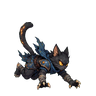
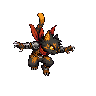
feat: align cinderpaw air animations

Changed region(s): [[0.125, 0.125, 0.8438, 0.9375]]

diff --git a/design/assets/asset-manifest.md b/design/assets/asset-manifest.md
@@ -40,7 +40,7 @@ are the transparent PNGs referenced by scenes or scripts.
 | cinderpaw_dodge_frames | `res://assets/characters/cinderpaw/dodge/cinderpaw_dodge_000.png` through `_002.png` | image generation | Pixel-art Cinderpaw dodge strip with crouch, dash, and recovery poses; generated source strip kept under `assets/characters/cinderpaw/source/`, chroma-key background removed to alpha, exported as three 96x96 transparent frames. | Imported | `assets/characters/cinderpaw/cinderpaw_sprite_frames.tres`; `src/gameplay/player_controller.gd`; `src/presentation/combat_presentation.gd` |
 | cinderpaw_dash_frames | `res://assets/characters/cinderpaw/dash/cinderpaw_dash_000.png` through `_002.png` | image generation derivative; source `assets/characters/cinderpaw/source/cinderpaw_dodge_strip_imagegen_20260624.png` | Runtime Dash frames are copied from the existing image-generated Cinderpaw dodge strip's dash-like poses so the Rat King dash reward has a dedicated `dash` SpriteFrames animation and dash-folder asset path. This is replaceable by a later authored Dash-only generation pass. | Imported | `assets/characters/cinderpaw/cinderpaw_sprite_frames.tres`; `src/gameplay/player_controller.gd`; `production/epics/player-abilities/story-001-dash-runtime-ability-gate.md` |
 | cinderpaw_hurt_death_revive_frames | `res://assets/characters/cinderpaw/hurt/cinderpaw_hurt_000.png`, `res://assets/characters/cinderpaw/death/cinderpaw_death_000.png`, and `res://assets/characters/cinderpaw/revive/cinderpaw_revive_000.png` through each `_002.png` | image generation | Pixel-art Cinderpaw hurt, death, and revive 3x3 source sheet with flat chroma-key background; saved under `assets/characters/cinderpaw/source/`, chroma-keyed to alpha, cropped, centered, and exported as 96x96 transparent frames. | Imported | `assets/characters/cinderpaw/cinderpaw_sprite_frames.tres`; `src/gameplay/player_controller.gd` |
-| cinderpaw_jump_fall_frames | `res://assets/characters/cinderpaw/jump/cinderpaw_jump_000.png` and `res://assets/characters/cinderpaw/fall/cinderpaw_fall_000.png` through each `_002.png` | image generation | Stylized Cinderpaw 2x3 jump/fall source sheet with flat chroma-key background; saved under `assets/characters/cinderpaw/source/`, chroma-keyed to alpha, cropped, resized, and exported as 96x96 transparent frames. | Imported | `assets/characters/cinderpaw/cinderpaw_sprite_frames.tres`; `src/gameplay/player_controller.gd` |
+| cinderpaw_jump_fall_frames | `res://assets/characters/cinderpaw/jump/cinderpaw_jump_000.png` and `res://assets/characters/cinderpaw/fall/cinderpaw_fall_000.png` through each `_002.png` | built-in image generation with Cinderpaw references; source `assets/characters/cinderpaw/source/cinderpaw_jump_fall_sheet_imagegen_20260715.png`; alpha source `assets/characters/cinderpaw/source/cinderpaw_jump_fall_sheet_alpha_20260715.png`; metadata `assets/characters/cinderpaw/source/cinderpaw_jump_fall_sheet_imagegen_20260715.md` | Six hard-edge `96x96` air-state frames preserving the canonical black/rust feline, red scarf, amber identity highlights, and dark steel armor. Exact 3x2 cells were chroma-matted, hard-alpha thresholded, and point/Nearest resized without feathering; replaces the former blue-cloak soft-render identity mismatch. | Imported | `assets/characters/cinderpaw/cinderpaw_sprite_frames.tres`; `src/gameplay/player_controller.gd`; `production/epics/combat-presentation/story-029-cinderpaw-air-animation-identity-consistency.md`; `production/qa/evidence/cinderpaw-air-animation-identity-consistency-2026-07-15.md` |
 | cinderpaw_parry_frames | `res://assets/characters/cinderpaw/parry/cinderpaw_parry_000.png` through `_002.png` | image generation; source `assets/characters/cinderpaw/source/cinderpaw_parry_strip_imagegen_20260626.png`; alpha source `assets/characters/cinderpaw/source/cinderpaw_parry_strip_alpha_20260626.png` | Pixel-art Cinderpaw 3-frame parry strip generated on green chroma key, alpha-matted, and sliced into 96x96 transparent frames for the player-facing `parry` SpriteFrames animation used by the parry laser gate runtime slice. | Imported | `assets/characters/cinderpaw/cinderpaw_sprite_frames.tres`; `src/gameplay/player_controller.gd`; `scenes/main.tscn`; `production/epics/player-abilities/story-019-parry-laser-gate-runtime.md` |
 | cinderpaw_aerial_attack_frames | `res://assets/characters/cinderpaw/aerial_attack/cinderpaw_aerial_attack_000.png` through `_002.png` | image generation; source `assets/characters/cinderpaw/source/cinderpaw_aerial_attack_strip_imagegen_20260711.png`; alpha source `assets/characters/cinderpaw/source/cinderpaw_aerial_attack_strip_alpha_20260711.png` | Reference-guided three-frame Cinderpaw airborne downward-claw strip, generated on green chroma key, alpha-matted, split into exact equal cells, and normalized to transparent `96x96` canvases for the unlocked `aerial_attack` state. | Imported | `assets/characters/cinderpaw/cinderpaw_sprite_frames.tres`; `src/gameplay/player_controller.gd`; `production/epics/player-abilities/story-129-sluice-matriarch-aerial-attack-reward-payoff.md` |
 | cinderpaw_heavy_charge_attack_frames | `res://assets/characters/cinderpaw/heavy_charge/cinderpaw_heavy_charge_000.png` through `_002.png`; `res://assets/characters/cinderpaw/heavy_attack/cinderpaw_heavy_attack_000.png` through `_002.png` | built-in image generation with Cinderpaw reference; source `assets/characters/cinderpaw/source/cinderpaw_heavy_charge_attack_sheet_imagegen_20260714.png`; alpha source `assets/characters/cinderpaw/source/cinderpaw_heavy_charge_attack_sheet_alpha_20260714.png`; metadata `assets/characters/cinderpaw/source/cinderpaw_heavy_charge_attack_sheet_imagegen_20260714.md` | Six-frame grounded heavy sequence: three progressive amber charge poses and three wind-up/slash/recovery poses. Flat green source was alpha-matted, split with fixed equal cells, and uniformly normalized to transparent `96x96` frames so scale, baseline, and anchor remain stable. | Imported | `assets/characters/cinderpaw/cinderpaw_sprite_frames.tres`; `src/gameplay/player_controller.gd`; `production/epics/feline-combat/story-010-grounded-heavy-charge-runtime.md` |

diff --git a/design/assets/entity-inventory.md b/design/assets/entity-inventory.md
@@ -18,7 +18,7 @@ All new visual assets in this inventory should be produced from image2 / image g
 
 | # | Name | Type | Description | Source | Status |
 |---|------|------|-------------|--------|--------|
-| 1 | Cat Warrior Player | Character / Protagonist | Main playable cat warrior with low ready stance, curved body language, sharp ears/claws, and cat-eye gold readability. Idle, run, attack, dodge, hurt, death, revive, jump, and fall frames are implemented through `AnimatedSprite2D + SpriteFrames`. | design/art/art-bible.md; design/gdd/feline-combat.md; design/gdd/player-abilities.md; production/epics/combat-presentation/story-003-cinderpaw-player-frame-animation.md; production/epics/combat-presentation/story-004-dodge-afterimage-cinderpaw-dodge-animation.md; production/epics/combat-presentation/story-005-cinderpaw-hurt-death-revive-animation.md; production/epics/combat-presentation/story-006-cinderpaw-jump-fall-animation.md | Implemented |
+| 1 | Cat Warrior Player | Character / Protagonist | Main playable cat warrior with low ready stance, curved body language, sharp ears/claws, and cat-eye gold readability. Idle, run, attack, dodge, hurt, death, revive, jump, and fall frames are implemented through `AnimatedSprite2D + SpriteFrames`; Story029 repairs jump/fall to the canonical black/rust, red-scarf, amber-highlight identity with hard pixel edges. | design/art/art-bible.md; design/gdd/feline-combat.md; design/gdd/player-abilities.md; production/epics/combat-presentation/story-003-cinderpaw-player-frame-animation.md; production/epics/combat-presentation/story-004-dodge-afterimage-cinderpaw-dodge-animation.md; production/epics/combat-presentation/story-005-cinderpaw-hurt-death-revive-animation.md; production/epics/combat-presentation/story-006-cinderpaw-jump-fall-animation.md; production/epics/combat-presentation/story-029-cinderpaw-air-animation-identity-consistency.md | Implemented |
 | 2 | Player Portrait | Character / Portrait | 64px dialogue/profile portrait with readable ears, eyes, and emotional variants for exploration, combat focus, hurt, and discovery. | design/art/art-bible.md; design/gdd/npc-dialogue.md | Needed |
 | 3 | Shadow Beast / Mechanical Rat Prototype | Enemy | Runtime patrol enemy with Shadow Beast image-generated frame animation, red attack tell, bite attack, hurt, and death frames. Uses `AnimatedSprite2D + SpriteFrames` in `scenes/characters/shadow_beast.tscn`; chase and richer AI scheduling remain pending. | design/art/art-bible.md; design/gdd/ai-framework.md; scenes/main.tscn; production/epics/feline-combat/story-009-runtime-enemy-attack-animation.md | Partial |
 | 4 | Mutated Creature / Factory Sluice Leech | Enemy / Old Factory Route Combat | Organic mutated-creature baseline implemented by Story126 as a distinct low S-curve industrial leech rather than another rat variant. The image-generated `FactoryTailraceExitSluiceLeech` uses `AnimatedSprite2D + SpriteFrames`, six 3-frame transparent 96x96 animations, an 18-frame signal-red-spine attack tell, a short CollisionComponent-driven lunge, family id `factory_sluice_leech`, and entity id `2146` after the Tailrace Exit Spillway. | design/art/art-bible.md; design/gdd/status-effects.md; design/gdd/ai-framework.md; design/gdd/feline-combat.md; production/epics/player-abilities/story-126-old-factory-tailrace-exit-spillway-sluice-leech-skirmish.md; production/qa/evidence/old-factory-tailrace-exit-spillway-sluice-leech-skirmish-2026-07-11.md | Implemented baseline |

diff --git a/assets/characters/cinderpaw/source/cinderpaw_jump_fall_sheet_imagegen_20260715.md b/assets/characters/cinderpaw/source/cinderpaw_jump_fall_sheet_imagegen_20260715.md
@@ -1,0 +1,71 @@
+# Cinderpaw Jump/Fall Image Generation Record
+
+Date: 2026-07-15
+Mode: built-in image generation with two Cinderpaw references
+Story: `production/epics/combat-presentation/story-029-cinderpaw-air-animation-identity-consistency.md`
+
+## 用途
+
+替换 2026-06-24 的跳跃/下落素材。旧素材使用蓝色披风、软绘制边缘和不同
+角色比例，与 idle/run 的黑锈猫、红围巾、深钢护甲身份不一致。
+
+## Prompt
+
+Create a strict 3-column by 2-row sprite animation sheet for the exact same
+Cinderpaw character shown in the references, for a polished 2D horizontal
+action game.
+
+CHARACTER IDENTITY MUST MATCH: small black-and-rust feline warrior, angular
+black fur, amber glowing eyes, bright red scarf with readable scarf tails,
+dark steel shoulder armor and forearm gauntlets, rust-orange fur accents,
+white claws. Do not redesign the costume. Absolutely no blue cloak, blue cape,
+blue armor, painterly rendering, soft illustration, or different character.
+
+PIXEL ART: crisp authored pixel art matching the first reference's pixel
+density, hard stepped edges, limited palette, high contrast, no antialiasing,
+no blur, no soft feathering, no glow outside the sprite. Each sprite must
+remain clearly readable after nearest-neighbor reduction to 96x96.
+
+LAYOUT: exactly six isolated, full-body, right-facing sprites in a precise 3x2
+grid, equal cell size and spacing, one character per cell, no overlap, no
+separators. Identical character scale and consistent pelvis/feet anchor. Keep
+at least 8% empty safety margin around every pose.
+
+TOP ROW - JUMP:
+1. jump takeoff, legs extending and front paw leading upward;
+2. rising jump, body stretched forward/up with scarf trailing;
+3. jump apex, compact feline tuck with tail balancing.
+
+BOTTOM ROW - FALL:
+1. early fall, body opening from apex, paws forward;
+2. stable downward fall, limbs spread for balance and scarf streaming upward;
+3. landing preparation, body lowered, legs reaching down, claws ready.
+
+BACKGROUND: perfectly uniform flat magenta chroma key #FF00FF covering every
+background pixel. Magenta must not appear on the character. No environment,
+ground, cast shadow, labels, text, UI, borders, watermark, extra limbs, extra
+tail, duplicate character, crop, or partial sprites.
+
+## References
+
+- `assets/characters/cinderpaw/source/cinderpaw_sprite_sheet_chroma.png`
+- `assets/characters/cinderpaw/source/cinderpaw_light_combo_sheet_alpha_20260714.png`
+
+## Outputs
+
+- Chroma source: `cinderpaw_jump_fall_sheet_imagegen_20260715.png`
+- Alpha source: `cinderpaw_jump_fall_sheet_alpha_20260715.png`
+- Runtime jump frames: `../jump/cinderpaw_jump_000.png` through `_002.png`
+- Runtime fall frames: `../fall/cinderpaw_fall_000.png` through `_002.png`
+- Runtime resource: `../cinderpaw_sprite_frames.tres`
+
+## Processing
+
+- Source is an exact `1536x1024` 3x2 grid with six `512x512` cells.
+- Border sampling selected magenta near `#fb03f5`; the project imagegen helper
+  produced the alpha matte and despill result.
+- Alpha was hard-thresholded before slicing. Each exact cell was resized with
+  point/Nearest filtering to a transparent `96x96` canvas; no Lanczos resize,
+  edge feather, or soft runtime alpha was retained.
+- Godot 4.7 imported the source, alpha source, and six runtime frames through
+  the normal import pipeline.

diff --git a/production/epics/combat-presentation/story-029-cinderpaw-air-animation-identity-consistency.md b/production/epics/combat-presentation/story-029-cinderpaw-air-animation-identity-consistency.md
@@ -1,0 +1,68 @@
+# Story 029: Cinderpaw Air Animation Identity Consistency
+
+> **Epic**: Combat Presentation
+> **Status**: Complete
+> **Layer**: Presentation
+> **Type**: Visual / Feel / Asset Repair
+> **Estimate**: S
+> **Manifest Version**: 2026-06-21
+> **Last Updated**: 2026-07-15
+
+## Context
+
+**GDD**: `design/gdd/combat-presentation.md`, `design/gdd/feline-combat.md`,
+`design/gdd/player-abilities.md`
+
+**Requirement**: `TR-combatfx-010`
+
+Story006 已实现 jump/fall 状态选择和三帧资源接线，但 2026-06-24 的六帧
+素材是蓝披风、软绘制的另一套角色设计，未保持 Cinderpaw 已确立的黑锈毛色、
+红围巾、琥珀高光和深钢护甲。本 Story 只修复玩家可见空中动画身份，不更改
+移动、战斗状态优先级或 SpriteFrames 路径。
+
+## Acceptance Criteria
+
+- [x] `jump` 与 `fall` 各保留 3 张透明 `96x96` 连续命名 PNG，并继续由
+  `AnimatedSprite2D + SpriteFrames` 使用。
+- [x] 六帧与 idle/run 保持黑锈猫、红围巾、琥珀眼/毛色高光、深钢护甲身份，
+  不含蓝披风设计。
+- [x] 每帧至少包含 30 个红围巾身份像素和 30 个琥珀身份像素，半透明软边
+  比例不高于 8%。
+- [x] 新源图由 image generation 参考 Cinderpaw 主精灵表和连击表生成，
+  提示词、源图、alpha 图与处理方式留档并通过 Godot 4.7 导入。
+- [x] 既有 upward `jump`、downward `fall` 和更高优先级动作状态保持通过。
+- [x] Godot MCP 3.0.2 在 Main 中验证真实 jump/fall、帧数、节点可见性、
+  非空截图、无新增运行时错误，并 clean stop。
+
+## Out of Scope
+
+- 跳跃物理、落地恢复、coyote time、double jump、hitbox 或状态优先级调整。
+- Dash、dodge、wall climb、攻击或敌人动画重做。
+- 场景、关卡、HUD、VFX、音频和存档变更。
+
+## Required Evidence
+
+- `tests/unit/gameplay/cinderpaw_air_animation_identity_consistency_test.gd`
+- `tests/unit/gameplay/player_air_animation_test.gd`
+- `tests/unit/gameplay/player_character_animation_test.gd`
+- `assets/characters/cinderpaw/source/cinderpaw_jump_fall_sheet_imagegen_20260715.md`
+- `production/qa/evidence/cinderpaw-air-animation-identity-consistency-2026-07-15.md`
+
+## Test Evidence
+
+- RED: `reports/report_1825/results.xml`, `1` 个验收测试产生预期的 `18`
+  个素材身份/软边失败。
+- Focused GREEN: `reports/report_1826/results.xml`, `1/1`。
+- Final focused + related: `reports/report_1829/results.xml`, `12/12`。
+- Fresh completion gate: `reports/report_1830/results.xml`, `12/12`，exit `0`。
+- Full suite 未运行，符合可见素材小 Story 的验证预算。
+
+## Completion Notes
+
+**Completed**: 2026-07-15
+
+**Criteria**: 6/6 passing
+
+六帧仍使用原有路径，因此 `cinderpaw_sprite_frames.tres` 与玩家控制器无需
+修改。相关回归同时修正一条 2026-06-24 的过时测试断言：当前三段连击会按
+Core 攻击帧故意暂停在第 0 帧，测试现改为验证该确定性契约，没有修改运行时代码。

diff --git a/production/qa/evidence/cinderpaw-air-animation-identity-consistency-2026-07-15.md b/production/qa/evidence/cinderpaw-air-animation-identity-consistency-2026-07-15.md
@@ -1,0 +1,62 @@
+# QA Evidence: Cinderpaw Air Animation Identity Consistency
+
+> **Story**: `production/epics/combat-presentation/story-029-cinderpaw-air-animation-identity-consistency.md`
+> **Date**: 2026-07-15
+> **Engine**: Godot 4.7 stable
+> **Godot AI MCP**: 3.0.2
+> **Result**: PASS
+
+## Scope
+
+仅替换 Cinderpaw 的 3 帧 jump 与 3 帧 fall 素材，使其回到 idle/run 已确立
+的角色身份和硬边像素风格。未修改物理、状态机、场景、SpriteFrames 路径、
+hitbox、关卡或音频。
+
+## Asset Pipeline
+
+- Built-in image generation，参考：
+  `cinderpaw_sprite_sheet_chroma.png` 与
+  `cinderpaw_light_combo_sheet_alpha_20260714.png`。
+- 完整提示词与处理记录：
+  `assets/characters/cinderpaw/source/cinderpaw_jump_fall_sheet_imagegen_20260715.md`。
+- 生成源图：`1536x1024`、严格 3x2、洋红 chroma key。
+- 处理：imagegen chroma helper + despill，随后 hard alpha threshold；按
+  `512x512` 单元精确切片并以 point/Nearest 缩放为 `96x96`。
+- 六帧 soft-edge ratio 均为 `0.000`；红围巾像素 `57-165`，琥珀身份像素
+  `82-114`，蓝色漂移像素 `0-1`。
+- Godot `--import --quit` exit `0`，新 source/alpha 与六帧均完成导入。
+
+## TDD And Regression
+
+- RED `report_1825`: 旧六帧红色身份像素仅 `6-14`、琥珀身份像素
+  `11-16`、soft-edge ratio `0.429-0.513`，验收测试预期失败 `18` 项。
+- Focused GREEN `report_1826`: 新视觉身份测试 `1/1`。
+- Related 首轮 `report_1827`: jump/fall `9/9` 通过，发现一条与本素材无关的
+  Story003 旧断言仍要求 attack sprite 自动播放。
+- Root cause: 2026-07-15 的 authored light combo 会在 `_start_attack_visual()`
+  故意 pause 第 0 帧，再由 Core contact/recovery 帧切到 1/2；旧断言已改为
+  验证 paused frame 0，运行时代码未变。
+- Final `report_1829`: identity、air-state、player character 三套件
+  `12/12`，exit `0`。
+- Fresh completion gate `report_1830`: 同一变更面三套件 `12/12`，
+  `0 errors / 0 failures / 0 orphans`，exit `0`。
+
+## Godot MCP Runtime
+
+- Session: `cinderpaw@af5f`。
+- Version: Godot `4.7-stable (official)`；plugin/server `3.0.2`。
+- Scene: `res://scenes/main.tscn`；run id `r97104478-36`。
+- `$Player/Sprite`: `AnimatedSprite2D`，script
+  `res://src/characters/cinderpaw.gd`，Nearest texture filter，可见。
+- SpriteFrames: `jump=3`、`fall=3`，首帧均为 `96x96` 且资源路径指向
+  `assets/characters/cinderpaw/<animation>/`。
+- 真实物理帧：向上速度进入 `jump`；玩家移离地面后向下速度进入 `fall`，
+  `is_on_floor=false`、sprite 正在播放。
+- 截图：MCP 分别返回可见 jump 与 fall 的非空 `1278x718` 游戏截图。
+- Logs: helper 与 DataManager 的 3 条 game info；无 error/warning/script
+  error/invalid call。最终 stop 返回 `readiness=ready`。
+
+## Verdict
+
+PASS。六帧不再是蓝披风软绘制角色，已成为同一 Cinderpaw 的可见空中帧动画，
+并保持既有 gameplay 状态契约。

diff --git a/production/epics/combat-presentation/EPIC.md b/production/epics/combat-presentation/EPIC.md
@@ -4,7 +4,7 @@
 > **GDD**: design/gdd/combat-presentation.md
 > **Architecture Module**: CombatPresentation
 > **Status**: In Progress
-> **Stories**: 28 stories tracked
+> **Stories**: 29 stories tracked
 
 ## Overview
 
@@ -68,6 +68,7 @@ collision, health, boss, and weapon events without owning their gameplay rules.
 | 026 | Neon Rooftops Combat Impact | Integration/Feel | Complete | ADR-0001, ADR-0002, ADR-0004, ADR-0005 |
 | 027 | Underground Passage Combat Impact | Integration/Feel | Complete | ADR-0001, ADR-0002, ADR-0004, ADR-0005 |
 | 028 | Old Factory Spark Rat Combat Impact | Integration/Feel | Complete | ADR-0001, ADR-0002, ADR-0004, ADR-0005 |
+| 029 | Cinderpaw Air Animation Identity Consistency | Visual/Feel | Complete | ADR-0001, ADR-0002, ADR-0005 |
 
 ## Definition of Done
 
@@ -81,7 +82,7 @@ This epic is complete when:
 
 ## Completion Evidence
 
-Combat Presentation has all 28 tracked stories complete, but the Epic remains
+Combat Presentation has all 29 tracked stories complete, but the Epic remains
 In Progress until the Main-scene real hitstop/input handoff is extended to
 independent player-facing combat scenes. Story014 adds the
 first Rat King boss frame-animation asset slice so the MVP boss no longer exists
@@ -133,6 +134,9 @@ valid after a defeated Leech is freed. Story028 extends the same runtime owner
 to Old Factory, verifies the real Spark Rat bite and Cat Claw dodge-counter,
 preserves dedicated PERFECT-parry and one-shot lethal feedback, and connects
 the shared Factory enemy landed-hit path without changing encounter balance.
+Story029 replaces the six blue-cloak, soft-edge jump/fall frames with
+reference-guided hard-edge Cinderpaw pixel art while preserving the existing
+SpriteFrames paths, air-state selection, and gameplay rules.
 Other independently mounted
 player-facing combat scenes remain follow-up coverage before Epic completion.
 Evidence is recorded in
@@ -164,3 +168,5 @@ Story027 evidence is recorded in
 `production/qa/evidence/underground-passage-combat-impact-2026-07-15.md`.
 Story028 evidence is recorded in
 `production/qa/evidence/old-factory-spark-rat-combat-impact-2026-07-15.md`.
+Story029 evidence is recorded in
+`production/qa/evidence/cinderpaw-air-animation-identity-consistency-2026-07-15.md`.

diff --git a/production/session-state/active.md b/production/session-state/active.md
@@ -191,6 +191,17 @@
   evidence from the stories validated at that time.
 
 ## Last Completed Task
+- Combat Presentation Story 029: Cinderpaw Air Animation Identity Consistency
+  -- 以 Cinderpaw 主精灵表和连击表为参考重新生成 jump/fall 六帧，修复旧素材
+  的蓝披风角色漂移与 `42.9%-51.3%` 软边；新帧保持红围巾、琥珀高光、深钢
+  护甲，hard-edge ratio 为 `0`。RED `report_1825`；focused GREEN
+  `report_1826` `1/1`；final focused/related `report_1829` `12/12`；fresh
+  completion gate `report_1830` `12/12`。
+  Godot 4.7 / MCP 3.0.2 run `r97104478-36` 验证 Main 真实 jump/fall、
+  `AnimatedSprite2D`、各 3 帧 `96x96`、两张非空 `1278x718` 截图、info-only
+  logs 与 clean stop `ready`。同时修正一条与 authored combo frame pause 不符的
+  旧 Story003 测试断言，未修改运行时代码。
+
 - Audio System Story 010: Focus Damage Low-HP Final Mix -- 保持既有 cue id/
   path 与 Main/AudioSystem 接线不变，将 Story005 0.34s replaceable baseline
   替换为 0.38s 44.1kHz mono PCM16 最终混音；相对普通受击音 20-80Hz

diff --git a/production/epics/index.md b/production/epics/index.md
@@ -20,5 +20,5 @@ Engine: Godot 4.7
 | scene-management | Feature | Scene Management | scene-management.md | 13 stories tracked | In Progress |
 | death-respawn | Feature | Death & Respawn | death-respawn.md | 8 stories | Complete |
 | hud-ui | Presentation | HUD/UI | hud-ui.md | 6 stories | Complete |
-| combat-presentation | Presentation | Combat Presentation | combat-presentation.md | 28 stories tracked | In Progress |
+| combat-presentation | Presentation | Combat Presentation | combat-presentation.md | 29 stories tracked | In Progress |
 | audio-system | Presentation | Audio System | audio-system.md | 10 stories tracked | In Progress |
